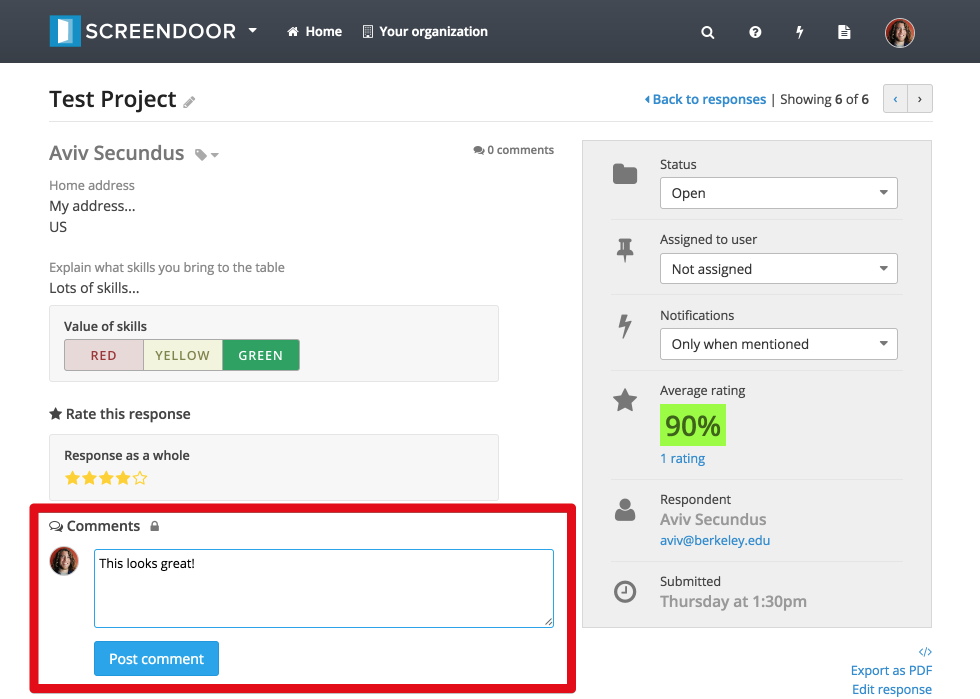
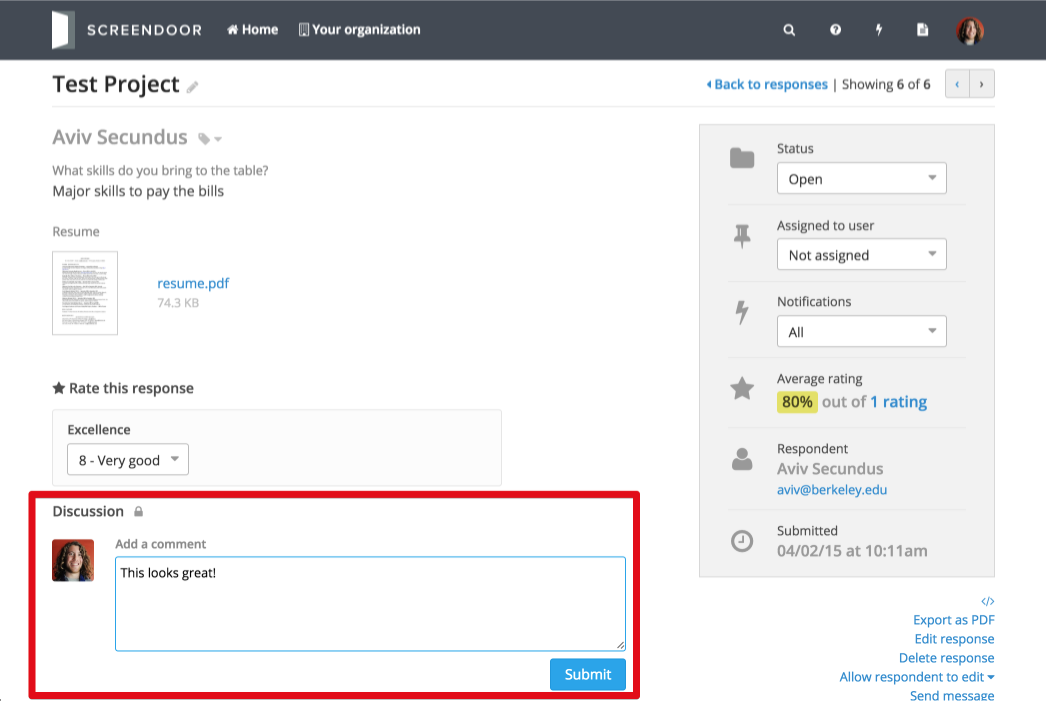
update comments screenshots/copy closes #185
per https://github.com/dobtco/screendoor-v2/pull/1627

diff --git a/contents/articles/screendoor/responses/reviewing_and_rating_responses.md b/contents/articles/screendoor/responses/reviewing_and_rating_responses.md
@@ -16,7 +16,7 @@ To rate a response, select or input an appropriate rating for any pertinent eval
 
 ## Commenting on a response
 
-To comment on a response, enter your comment and click the "Post comment" button.
+To comment on a response, enter your comment and click the "Submit" button.
 
 ![comment](../images/comment.png)
 
